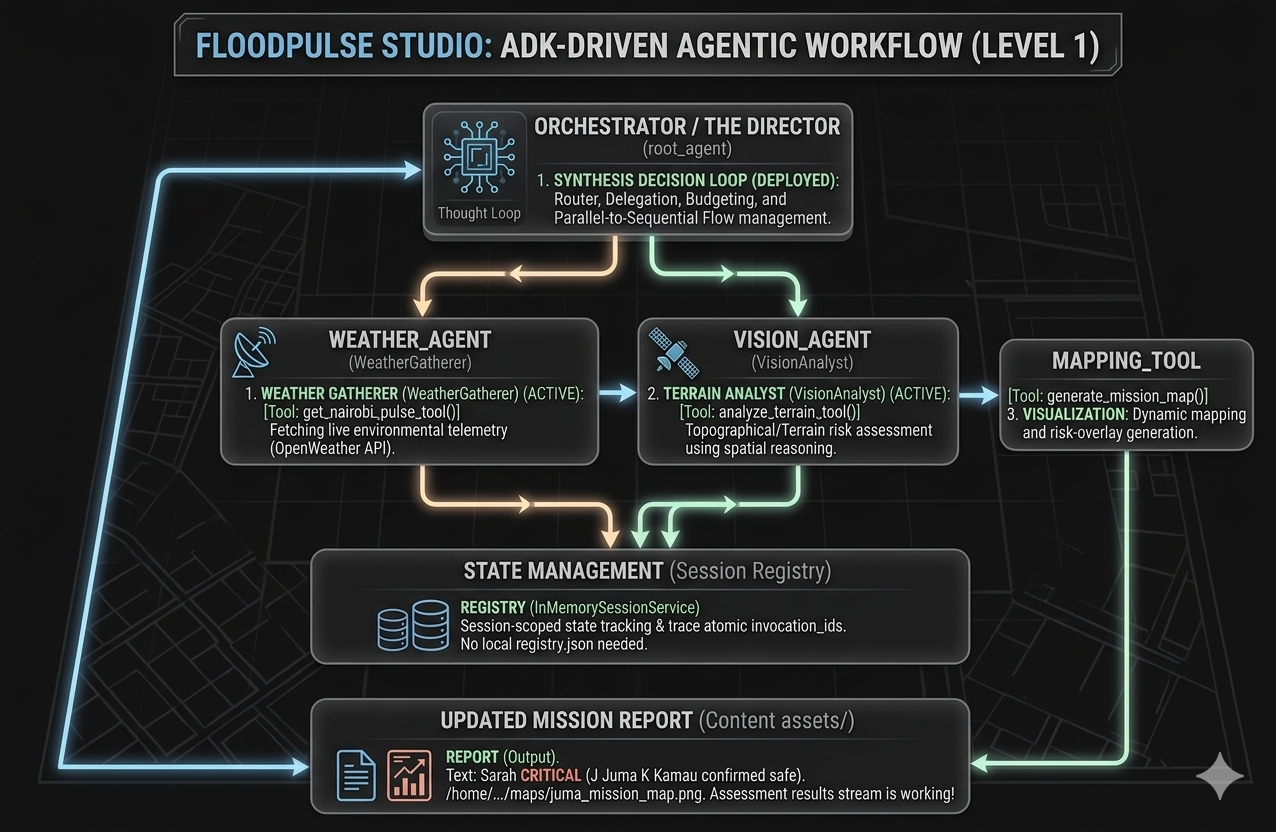
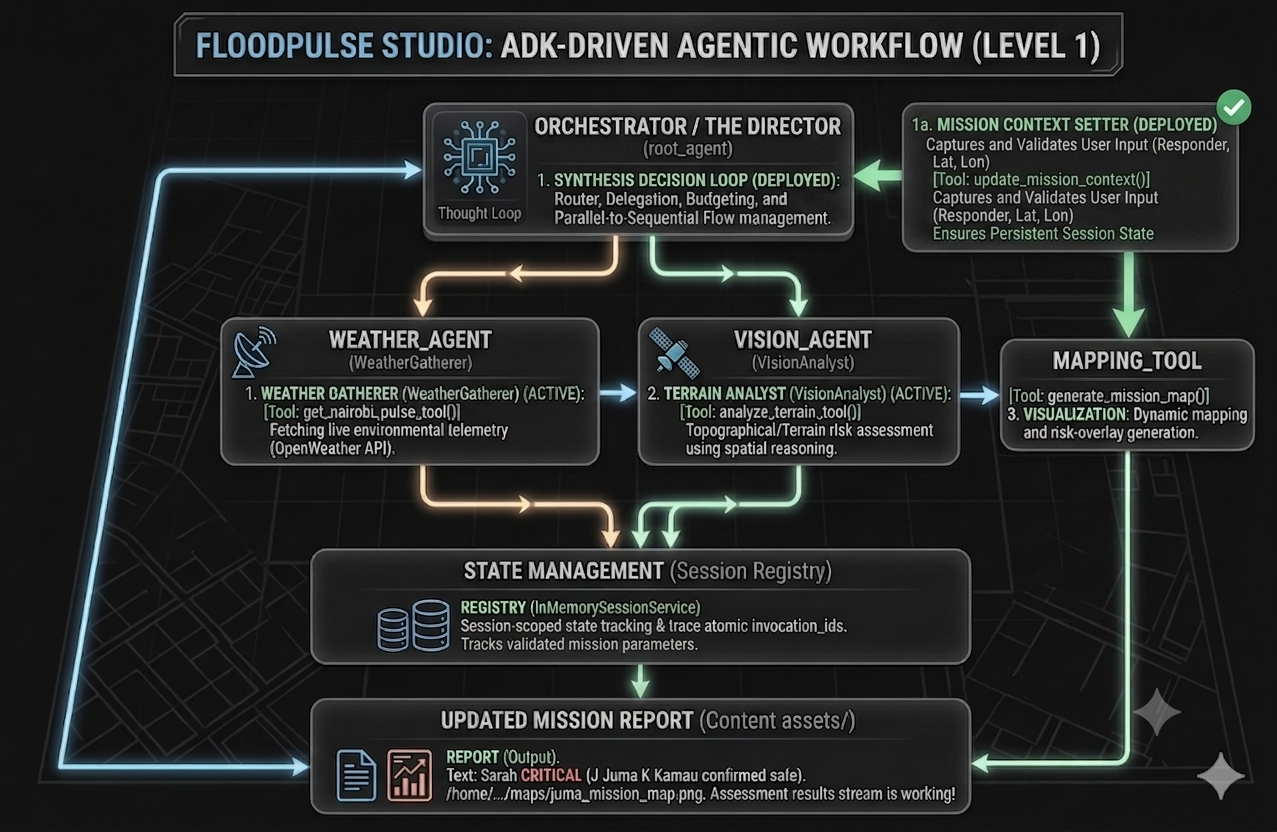
Docs: Finalize PRD, Spec, and README for Studio Resilience and Context-Setter pattern

diff --git a/config.py b/config.py
@@ -4,6 +4,7 @@ from dotenv import load_dotenv
 # Load .env 
 load_dotenv()
 
+
 MODELS = {
     "director": "gemini-2.5-flash",
     "sub_agent": "gemini-2.5-flash",

diff --git a/docs/PRD.md b/docs/PRD.md
@@ -14,7 +14,7 @@ FloodPulse utilizes a Modular Agentic Simulation pattern, evolving from static i
 
 - **Level 0 (The Gallery):** A persistent registry for personas (Sarah, Juma, Kamau) and finalized mission assets.
 - **The Sandbox (Lab/Validation):** An isolated, ephemeral environment used for Model Context Protocol (MCP) tool-calling validation, ADC-based authentication testing, and diagnostic reporting.
-- **Level 1 (The Studio):** The core Agentic Synthesis engine. It uses the **Google Agent Development Kit (ADK)** to orchestrate specialized sub-agents (Vision Analyst, Weather Gatherer) through a sequential delegation loop, ensuring atomic state management and session-scoped reliability.
+- **Level 1 (The Studio):** The core Agentic Synthesis engine. It uses the **Google Agent Development Kit (ADK)** to orchestrate specialized sub-agents (Vision Analyst, Weather Gatherer) through a sequential delegation loop, ensuring atomic state management and session-scoped reliability. The core engine utilizes an Agentic Resilience Layer (`utils.py` and `genai_retry` logic) to manage API fluctuations and quota constraints. State is managed through an explicit **Context-Setter Pattern**, requiring the Orchestrator to validate and persist mission parameters before task delegation.
 - **Level 2 Graph Orchestration:** Google Cloud Spanner backbone for persistent node-based navigation.
 
 ### 3.1 Evolutionary Roadmap
@@ -32,26 +32,29 @@ FloodPulse utilizes a Modular Agentic Simulation pattern, evolving from static i
 - Logic: Implemented `create_identity.py` and `generator.py` using an Orchestrator/Worker pattern.
 - Output: Consistent visual assets stored in `level_0/outputs/.`
 
-### 4.2 The Sandbox
+### 4.2 The Sandbox (Completed)
 - **Purpose:** To serve as a hardened proving ground for all Tool/Agent interactions.
 - **FR1 (Protocol Verification):** All new spatial reasoning tools must be validated against the MCP Inspector at port 6274 before being merged into the Studio.
 - **FR2 (Authentication Hardening):** Ensures all production-path tools are compatible with **Application Default Credentials (ADC)**, providing a secure alternative to legacy API key management.
 - **FR3 (Artifact Logging):** Every successful diagnostic session must generate a documentation record in `sandbox/notes.md.` to maintain a historical "truth" of tool performance.
 - **FR4 (Path Shielding):** Implementation of dynamic `PROJECT_ROOT` resolution in all sandbox scripts to prevent file-system corruption or duplicate directory nesting (`levels/levels/...`).
 
-### 4.3 Level 1: The Studio (Ongoing)
+### 4.3 Level 1: The Studio (Completed)
 - **FR5 (Sequential Orchestration):** The `FloodPulseStudio` uses `SequentialAgent` logic to map user intent to a precise, context-aware execution flow.
 - **FR6 (Telemetry-Aware Synthesis):** The orchestrator pulls real-time environmental telemetry (Weather) and terrain data (Vision) to generate a unified mission risk assessment.
 - **FR7 (Artifact Promotion):** Automated pipeline moves validated assets from /level_0/outputs to the public /level_1/assets registry.
 - **FR8 (Memory Injection):** Contextual injection of persona metadata (Level 0) into `callback_context` to ensure agents are "Persona-Aware."
 - **FR9 (Interaction):** Interactive discovery phase where the root agent greets the user and determines mission parameters before synthesizing assets.
 - **FR10 (Idempotency):** The ADK `InMemorySessionService` tracks invocation_ids to ensure atomic tool execution and cost-efficient API usage.
+- **FR11 (Resilience Integration):** All external tool calls are wrapped in `http/gen_ai_retry` (exponential backoff with jitter) to mitigate `429 RESOURCE_EXHAUSTED` and `503 UNAVAILABLE errors`.
+- **FR12 (Context-Setter Gatekeeper):** The Orchestrator forces an `update_mission_context` execution for every session, transforming raw user input into a persistent `session.state` that fuels downstream domain sub-agents.
+- **FR13 (Root-Level Utility Infrastructure):** Migration of shared utility logic to the root `/utils.py` module to ensure consistent package namespace resolution and eliminate `ImportError` regressions.
 
-### 4.3 Graph Orchestration (Completed)
-- **FR11: Persistent State:** The system utilizes **Google Cloud Spanner** (Instance: survivor-network) to store the Trinity (Sarah, Juma, Kamau) as living graph nodes. (✅ Implemented via `spanner_init.py`)
-- **FR12: Relational Intelligence:** Implemented `FloodResilienceGraph` with ConnectedTo edges to map emergency lifelines between residents and responders. (✅ Implemented)
-- **FR13: Data Integrity:** System supports Idempotent Initialization and "Smart Repair" logic to ensure infrastructure stability in unstable connectivity environments. (✅ Implemented)
-- **FR14: GQL-Based Routing:** The system uses **Google Query Language (GQL)** to filter nodes by risk index and return optimized responder paths. (✅ Implemented)
+### 4.3 Graph Orchestration (Ongoing)
+- **FR14: Persistent State:** The system utilizes **Google Cloud Spanner** (Instance: survivor-network) to store the Trinity (Sarah, Juma, Kamau) as living graph nodes. (✅ Implemented via `spanner_init.py`)
+- **FR15: Relational Intelligence:** Implemented `FloodResilienceGraph` with ConnectedTo edges to map emergency lifelines between residents and responders. (✅ Implemented)
+- **FR16: Data Integrity:** System supports Idempotent Initialization and "Smart Repair" logic to ensure infrastructure stability in unstable connectivity environments. (✅ Implemented)
+- **FR17: GQL-Based Routing:** The system uses **Google Query Language (GQL)** to filter nodes by risk index and return optimized responder paths. (✅ Implemented)
 
 ## 5. Non-Functional Requirements (NFR)
 - **Latency:** Inference for terrain risk analysis must be < 2 seconds.
@@ -60,7 +63,9 @@ FloodPulse utilizes a Modular Agentic Simulation pattern, evolving from static i
 - **Diagnostic Transparency:** All tool-calling errors in the sandbox must be captured as logs and, where possible, visual artifacts (screenshots/maps) for PRD compliance.
 - **Credit Awareness:** All LLM calls gated by idempotent checks to minimize API spend.
 - **State Management:** ADK-based session management maintains context
+- **Quota Awareness:** The system must implement "Cache-Before-Call" logic for all geospatial assets, checking local `/assets/` directories for existing files before invoking remote API endpoints to conserve the 20-request/day free-tier quota.
 - **Edge Readiness:** Architecture maintains modularity to support future porting to Android 17 on-device AppFunctions using Gemma 4
+- **Model Portability:** All Agentic Logic must be abstracted from the model backend to allow seamless switching between `Gemini-2.5-Flash` (Cloud) and `Gemma-4` (On-Device) via the `google-genai` interface.
 
 ## 6. Technical Validation: "The Mbagathi Truth"
 - **Baseline:** Validated spatial reasoning for topographical analysis (`Gemma 4 (31B)` , `Gemini-2.5-Flash`, `Gemini-3.5-Flash`).

diff --git a/levels/level_1/spec.md b/levels/level_1/spec.md
@@ -4,28 +4,30 @@
 The **Studio** is the core Agentic Synthesis engine for the FloodPulse Nairobi project. It moves beyond linear script execution to a persistent, goal-oriented pipeline that leverages the **Google Agent Development Kit (ADK)** to orchestrate specialized agents. This system synthesizes mission-critical data in real-time for the Mbagathi Basin, maintaining state-aware context throughout the life of a mission.
 
 ## 2. Agentic Roles (Hierarchy)
-- **Orchestrator (The Director):** The Root Agent implemented as a `SequentialAgent`. It manages mission requests, performs task delegation via a predefined workflow, and synthesizes final outputs.
+- **Orchestrator (The Director):** The Root Agent implemented as a `SequentialAgent`. It is responsible for validating and persisting user-provided mission context (Name, Lat, Lon) into the `session.state` via the Context Setter tool before delegating domain tasks.
 - **Weather Agent:** A specialized sub-agent for fetching and interpreting live environmental telemetry (OpenWeather API).
 - **Vision Agent:** A specialized sub-agent for topographical/terrain risk assessment utilizing spatial reasoning and vision-based tool calling.
 
 ## 3. Orchestration Workflow
 The Studio utilizes the ADK’s sequential execution pattern to adhere to the "Resilience Protocol":
-1. **Delegation:** The Director receives user intent and maps it to a sequential flow.
-2. **Sequential Flow:**
+1. **Context Initialization:** The Director captures mission details and calls the `update_mission_context` tool to initialize the session.state. Execution is blocked until this context is verified.
+2. **Delegation:** The Director maps the verified context to the sequential flow.
+3. **Sequential Flow:**
 - **Step 1:** Telemetry Fetching (WeatherGatherer gathers real-time data).
 - **Step 2:** Terrain Assessment (VisionAnalyst evaluates spatial hazards).
 - **Step 3:** Visualization (Mapping tool overlays safety status).
-3. **Session Management:** All transitions are handled within an `InMemorySessionService` registry, ensuring the conversation context is maintained throughout the sequential delegation.
+4. **Session Management:** All transitions are handled within an `InMemorySessionService` registry, ensuring the conversation context is maintained throughout the sequential delegation.
 
 ## 4. Tool Registry (The "Hands")
+- `update_mission_context(responder_name, lat, lon)`: Persists raw user input into the `tool_context.session.state`. This tool acts as the "Gatekeeper," ensuring downstream agents have access to standardized mission parameters.
 - `generate_mission_map(responder_name, lat, lon)`: Draws responder identities onto the static basemap with color-coded risk status.
 - `get_nairobi_pulse_tool(lat, lon)`: Extracts rainfall and intensity data to inform the Studio’s risk assessment.
 - `analyze_terrain_risk(lat, lon)`: Maps coordinates to known hazard nodes (sumps, arterial bottlenecks) via the internal graph reference.
 
 ## 5. State Management & Idempotency
-- **Registry:** ADK-managed Session objects for high-concurrency, memory-resident state tracking.
-- **Idempotency:** The Runner handles task execution logic. By tracking invocation_ids, the system ensures that complex tool-calling chains are atomic and traceable.
-- **Resilience:** The system utilizes tenacity for automatic retry strategies during transient API unavailability (e.g., 503 errors).
+- **Context Injection:** State is explicitly injected via `tool_context.session.state`, ensuring that `weather_tools` and `map_tools` receive validated parameters.
+- **Resilience Layer:** Integrated `@genai/http_retry` (exponential backoff with jitter) handles transient `429` (Quota) and `503` (Unavailable) errors, ensuring mission continuity despite external API limitations.
+- **Asset Caching:** Idempotent file management ensures that if a mission map or tile already exists on the disk, the system bypasses external API calls, reducing latency and protecting daily rate limits.
 
 ## 6. Interaction Loop
 1. **Trigger:** `main.py` initializes the `Runner` and registers a `session_id` within the `InMemorySessionService`.
@@ -33,6 +35,8 @@ The Studio utilizes the ADK’s sequential execution pattern to adhere to the "R
 3. **Reasoning:** Sub-agents execute tools sequentially, passing results back up to the Director.
 4. **Action:** The Vision/Mapping agents render the status update.
 5. **Report:** The Director returns a final `Content` object summarizing the terrain status and mission outcomes.
+
+**Protocol Note:** If the `session.state` is found to be missing required latitude or longitude during tool invocation, agents must trigger a `ValueError`, forcing the Director to re-engage the user for missing mission parameters.
 
 ---
 

diff --git a/README.md b/README.md
@@ -29,12 +29,13 @@ floodpulse-nairobi/
 │   ├── level_1/        # The Studio: ADK Sequential Orchestration
 │   └── level_2/        # Graph Orchestration: Spanner/GQL
 ├── sandbox/            # Experimental MCP rigs & diagnostic lab
-├── tools/              # Shared spatial (map) & weather tools
-├── utils/              # State management & utilities
+├── tools/              # Shared spatial (map), weather & context tools
+├── utils.py            # Global Resilience Layer (Retry logic, shared helpers)
 ├── config.json         # Global application settings
 ├── config.py           # Configuration handler & validation
 ├── pyproject.toml      # Dependency management (uv)
-└── uv.lock             # Deterministic lockfile
+├── uv.lock             # Deterministic lockfile
+└── __init__.py             # Package namespace initialization
 ```
   
 ### 📊 Evolutionary Roadmap
@@ -45,6 +46,39 @@ floodpulse-nairobi/
 | **Level 1** | The Studio: Agentic Synthesis & Telemetry Integration | ✅ Done |
 | **Level 2** | Graph Orchestration: Spanner/GQL Navigation | 🟡 Ongoing |
 | **Edge** | Android 17 Parity: Local Gemma 4 inference | 🔜 Planned |
+---
+## 🛡 Resilience & State Protocol
+- **Resilience Layer (`utils.p`y):** We use `@http/genai_retry` decorators across all API-bound tools (Maps, Weather, GenAI). They utilizes exponential backoff with jitter to gracefully recover from `429 (Resource Exhausted)` and `503 (Unavailable) errors`.
+- **Context-Setter Pattern:** The Director agent uses the `update_mission_context` tool to persist mission parameters (Name, Lat, Lon) into `tool_context.session.state`. This ensures that downstream agents have reliable access to validated mission data.
+-**Asset Caching:** To preserve daily API quotas, all map and terrain assets are checked against the local `/assets/` directory before triggering remote API calls.
+---
+
+## ⚙ Setup & Execution
+1. **Install Dependencies:** `uv sync`
+2. **Environment Variables:** Create a `.env` file in the project root:
+```plaintext
+# API Keys (For Sandbox / Prototyping)
+GEMINI_API_KEY=
+MAPS_API_KEY=
+OPENWEATHER_API_KEY=
+
+# ADC / Vertex AI (For Production Studio)
+USE_VERTEX_AI=true
+PROJECT_ID=your-project-id
+LOCATION=us-central1
+```
+3. **Authentication Protocol**
+
+The system supports two execution modes via `config.py`:
+- **Sandbox Mode (`USE_VERTEX_AI=false`):** Uses standard API keys. Ideal for rapid iteration, testing, and debugging.
+- **Studio Production Mode (`USE_VERTEX_AI=true`):** Uses **Application Default Credentials (ADC)**. This leverages your project's IAM identity for secure, enterprise-grade access.
+  - **Note:** Ensure you have authenticated locally via `gcloud auth application-default login` before running in Studio mode.
+    
+4. **Run Missions:** Execute from the root directory using the module flag:
+```
+uv run python -m levels.level_1.agent
+adk web levels/level_1 
+```
 ---
 ## 🎯 Technical Validation: "The Mbagathi Truth"
 

diff --git a/levels/level_1/README.md b/levels/level_1/README.md
@@ -37,8 +37,8 @@ floodpulse-nairobi/
 ├── levels/             # Core Engine
 │   └── level_1/        # Sequential Orchestrator & Studio Logic
 ├── sandbox/            # Experimental MCP rigs & diagnostic lab
-├── tools/              # Shared spatial (map) & weather tools
-├── utils/              # State management & utility helpers
+├── tools/              # Shared spatial (map), weather & context tools
+├── utils.py            # Global utility functions (Retry logic, shared helpers)
 ├── config.json         # Centralized application settings
 ├── config.py           # Model and API configurations
 ├── pyproject.toml      # Dependency management & project metadata
@@ -51,6 +51,13 @@ floodpulse-nairobi/
 - **Session-Aware execution:** ADK-driven session management ensures mission state is scoped and tracked for multi-turn reliability.
 - **Agentic Loop:** A centralized director handles the lifecycle of every request, ensuring consistent persona and context maintenance.
   
+---
+
+## 🛡 Operational Principles
+- **Robust Resilience:** All API interactions (GenAI, Maps, OpenWeather) are wrapped in `retry` decorators using exponential backoff with jitter to handle capacity spikes and quota exhaustion gracefully.
+- **State-First Orchestration:** Missions begin with a `context_setter` call to populate the `tool_context.session.state`. Downstream agents operate as pure consumers of this validated state, ensuring deterministic behavior.
+- **Idempotent Asset Pipeline:** Map and tile generation checks local filesystem caches (`assets/`) before triggering external API calls, optimizing for both latency and daily quota consumption.
+
 ---
 
 ## 📍 Deployment Nodes
